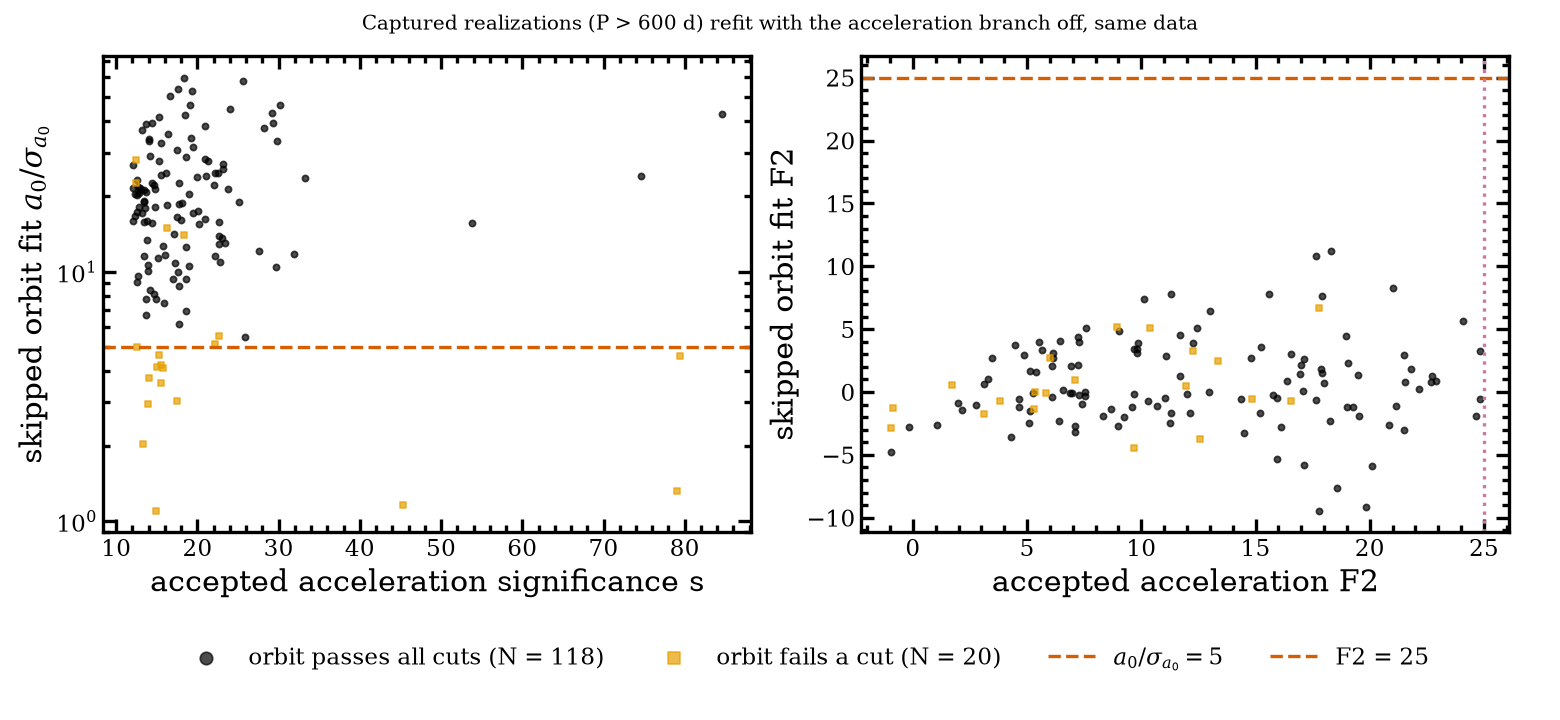
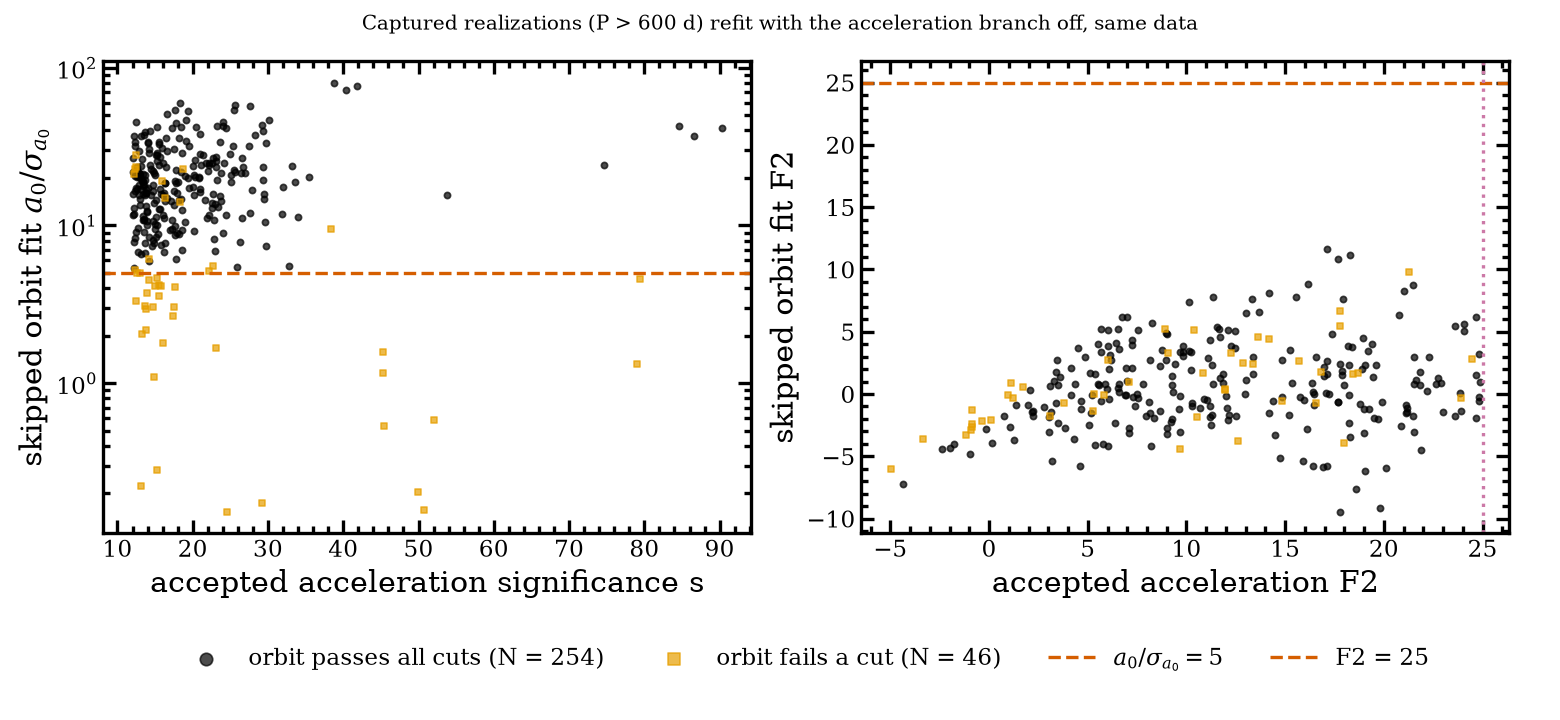
[AI Checkpoint] #399/#398: final forced-orbit numbers, unit tests for FOV/truth-draw helpers, follow-ups #402 #403

diff --git a/tests/test_cascade_replay.py b/tests/test_cascade_replay.py
@@ -166,3 +166,44 @@ def test_common_rescaling_leaves_statistics_invariant(gm_cf: tuple[Any, Any]) ->
     b = cr.linear_cascade_statistics(gm, ep.t_ast_yr, ep.psi, ep.plx_factor, k * ep.observed, k * ep.ast_err)
     for f in ("ruwe", "s9", "f2_9", "plx_snr9", "s7", "f2_7", "plx_snr7"):
         assert getattr(a, f) == pytest.approx(getattr(b, f), rel=1e-9)
+
+
+@pytest.mark.unit
+def test_fov_transit_groups_handles_unsorted_times() -> None:
+    sec = 1.0 / (365.25 * 86400.0)
+    t = np.array([0.0, 5.0, 10.0, 7000.0, 7005.0, 20000.0]) * sec
+    perm = np.array([3, 0, 5, 1, 4, 2])
+    g = cr.fov_transit_groups(t[perm], max_gap_s=60.0)
+    expected = np.array([0, 0, 0, 1, 1, 2])[perm]
+    assert np.array_equal(g, expected)
+
+
+@pytest.mark.unit
+def test_fov_correlated_noise_limits() -> None:
+    rng = np.random.default_rng(3)
+    n_fov, per = 400, 9
+    sec = 1.0 / (365.25 * 86400.0)
+    t = (np.repeat(np.arange(n_fov) * 7000.0, per) + np.tile(np.arange(per) * 5.0, n_fov)) * sec
+    noise = rng.normal(0, 0.1, n_fov * per)
+    ep = cr.ReplayedEpochs(t_ast_yr=t, psi=np.zeros_like(t), plx_factor=np.zeros_like(t),
+                           observed=noise, signal=np.zeros_like(t), noise=noise, ast_err=np.full_like(t, 0.1))
+    n0 = cr.fov_correlated_noise(ep, correlated_fraction=0.0, rng=np.random.default_rng(1), max_gap_s=60.0)
+    assert np.allclose(n0, noise)
+    n1 = cr.fov_correlated_noise(ep, correlated_fraction=1.0, rng=np.random.default_rng(1), max_gap_s=60.0)
+    assert np.allclose(n1.reshape(n_fov, per).std(axis=1), 0.0)  # fully common within a transit
+    nh = cr.fov_correlated_noise(ep, correlated_fraction=0.5, rng=np.random.default_rng(1), max_gap_s=60.0)
+    assert np.std(nh) == pytest.approx(np.std(noise), rel=0.1)  # per-CCD variance preserved
+    with pytest.raises(ValueError):
+        cr.fov_correlated_noise(ep, correlated_fraction=1.5, rng=np.random.default_rng(1), max_gap_s=60.0)
+
+
+@pytest.mark.unit
+def test_truth_draws_refuse_without_covariance() -> None:
+    from types import SimpleNamespace
+
+    fake = SimpleNamespace(get_Campbell_elements=lambda a, b, f, g: (1.0, 0.0, 0.0, 1.0))
+    row = dict(_ROW)  # no corr_vec / bit_index -> covariance cannot be rebuilt
+    out = cr.draw_truths_from_published_covariance(
+        fake, row, {"a0_mas": 1.0}, 5, np.random.default_rng(0), ecc_max=0.99
+    )
+    assert out is None

diff --git a/docs/gate399/README.md b/docs/gate399/README.md
@@ -73,10 +73,11 @@ coverage, which causes many long-period sources to receive acceleration solution
 DR3 selection function.
 
 **Conclusion (b):** the rule is not the difference. Forcing the orbit on the same data shows
-what the rule costs: of the FORCED_N captured P > 600 d realizations, **FORCED_PASS** give an
-orbit that passes every Eq. 18-22 cut (median a0/σa0 FORCED_S, F2 FORCED_F2, |ΔP|/P FORCED_DP;
+what the rule costs: of the 300 captured P > 600 d realizations, **0.85 (254/300; 68% interval 0.82-0.87)** give an
+orbit that passes every Eq. 18-22 cut (median a0/σa0 17.1, F2 0.3, |ΔP|/P 2.2%; failing cuts are mostly a0/σa0 (89% pass) and 158/√P (89% pass);
 `figures/forced_orbit.png`). Had the cascade tried the orbit, most would have been accepted
-orbits, as DR3 published them.
+orbits, as DR3 published them: long-period Orbital acceptance would be ~0.66 + 0.23 × 0.85 ≈ 0.85
+instead of 0.66.
 
 ### 2. What decides it: the parallax criterion
 
@@ -162,7 +163,7 @@ Two mechanisms widen the per-system spread and so make winner's curse more plaus
 
 **Classification of the residual: undecided between (ii) and (iii).** Re-injecting a selected
 sample cannot settle it. The decisive test is population-level: the mock's long-period
-orbit : acceleration ratio against DR3's, which needs the `nss_acceleration_astro` snapshot (spec
+orbit : acceleration ratio against DR3's, which needs the `nss_acceleration_astro` snapshot (#402; spec
 Q7 / Q7b, #341). The #391 full run already contains everything the mock side of that comparison
 needs.
 
@@ -226,7 +227,7 @@ noise. Both are fully quantified, and together they close the σ deficit to ≤ 
 | B. Bound it with a pop-side post-cascade rule | e.g. fit the orbit for accepted accelerations and keep it when it passes Eqs. 18-22. Not DR3's rule, so only as a sensitivity bound | **partial re-simulation**: only the acceleration-outcome draws need the orbit fit. They replay exactly from the stored seeds (`run_full_astrometric_cascade(..., skip_acceleration=True)` under `seeded_global_rng`; the same replay reproduced 20/20 orbits here) at ~11 CPU s each. Any rule that reads the 9-par statistics of a 7-par winner also needs the cheap linear replay, because the vector stores only the winner's statistics |
 | C. Correct the noise first (see #398 options) | removes ~3-4 pp of capture | **full re-simulation** (every draw's epochs change) |
 | D. Upstream gaiamock_mod change | thinning to DR3's transit count and the bright-star term, inside gaiamock_mod | **full re-simulation** |
-| E. Decide after the population-level test | run Q7b first; it alone separates (ii) from (iii) | reusable (the test uses the stored outcomes) |
+| E. Decide after the population-level test (#402) | run Q7b first; it alone separates (ii) from (iii) | reusable (the test uses the stored outcomes) |
 
 **#398**
 

diff --git a/docs/ELBADRY2024_REPRODUCTION_SPEC.md b/docs/ELBADRY2024_REPRODUCTION_SPEC.md
@@ -281,14 +281,15 @@ Full report: `docs/gate399/README.md`. Measured by replaying every #390 realizat
   noise × 1.11: 0.223 / 0.237; DR3-matched noise (epoch count + bright-star excess, below):
   0.193 / 0.212; truth drawn from the published covariance: 0.208 / 0.223; noise × 0.5:
   0.168 / 0.188.
-- **Skipped orbit.** With the acceleration branch forced off on the same data, most captured
-  realizations give an orbit that passes every Eq. 18-22 cut (see the report for the final
-  fraction).
+- **Skipped orbit.** With the acceleration branch forced off on the same data, 85% (254/300) of
+  captured P > 600 d realizations give an orbit that passes every Eq. 18-22 cut, so long-period
+  acceptance would be ~0.85 instead of 0.66 without the acceleration branch. That is DR3's rule
+  at work, not a gaiamock difference.
 - **Residual.** About 0.19-0.21 survives every correction. Per-system capture is bimodal: 74 of
   515 long-period Orbital systems are captured in ≥ 90% of 25 realizations. A re-injection of a
   *selected* sample cannot by itself separate a forward-model defect from the expected
   re-injection capture of a sample conditioned on DR3 not capturing it; that needs the
-  population-level orbit : acceleration comparison (Q7 / Q7b).
+  population-level orbit : acceleration comparison (Q7 / Q7b, #402).
 - **σ deficit (#398) is explained.** Recovered/published σ (median 0.89 for ϖ and a0, 0.86 for P)
   becomes 1.02 / 1.02 / 0.99 after two terms: gaiamock has 13% more CCD observations than DR3's
   `astrometric_n_good_obs_al` (×√1.13), and DR3's goodness-of-fit inflation c (Halbwachs Eq. 2) is
